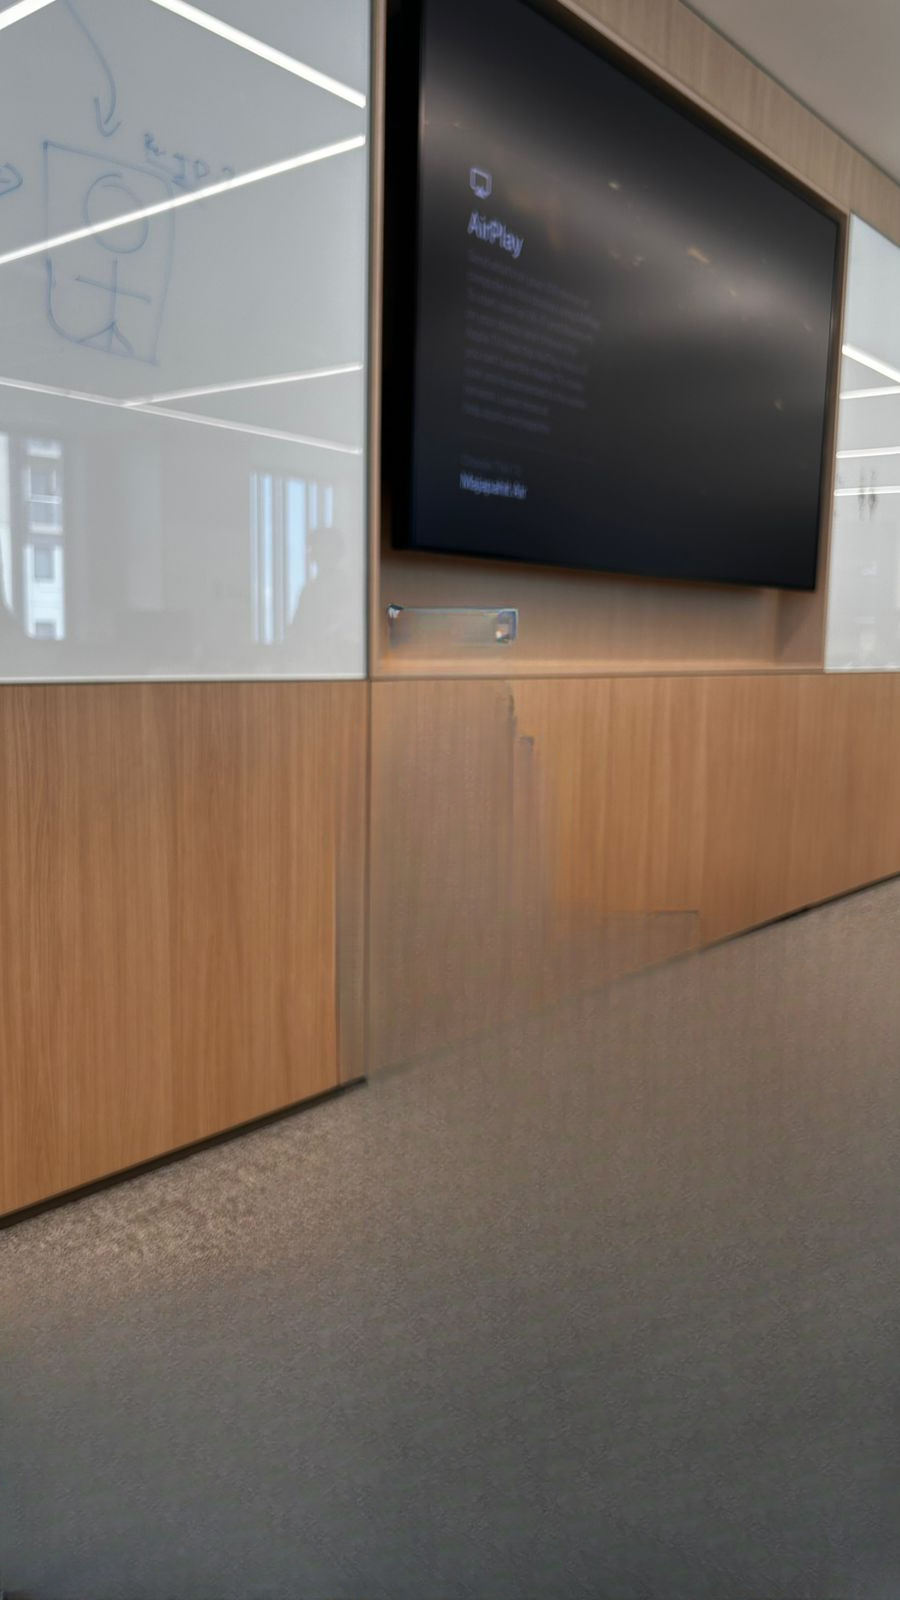
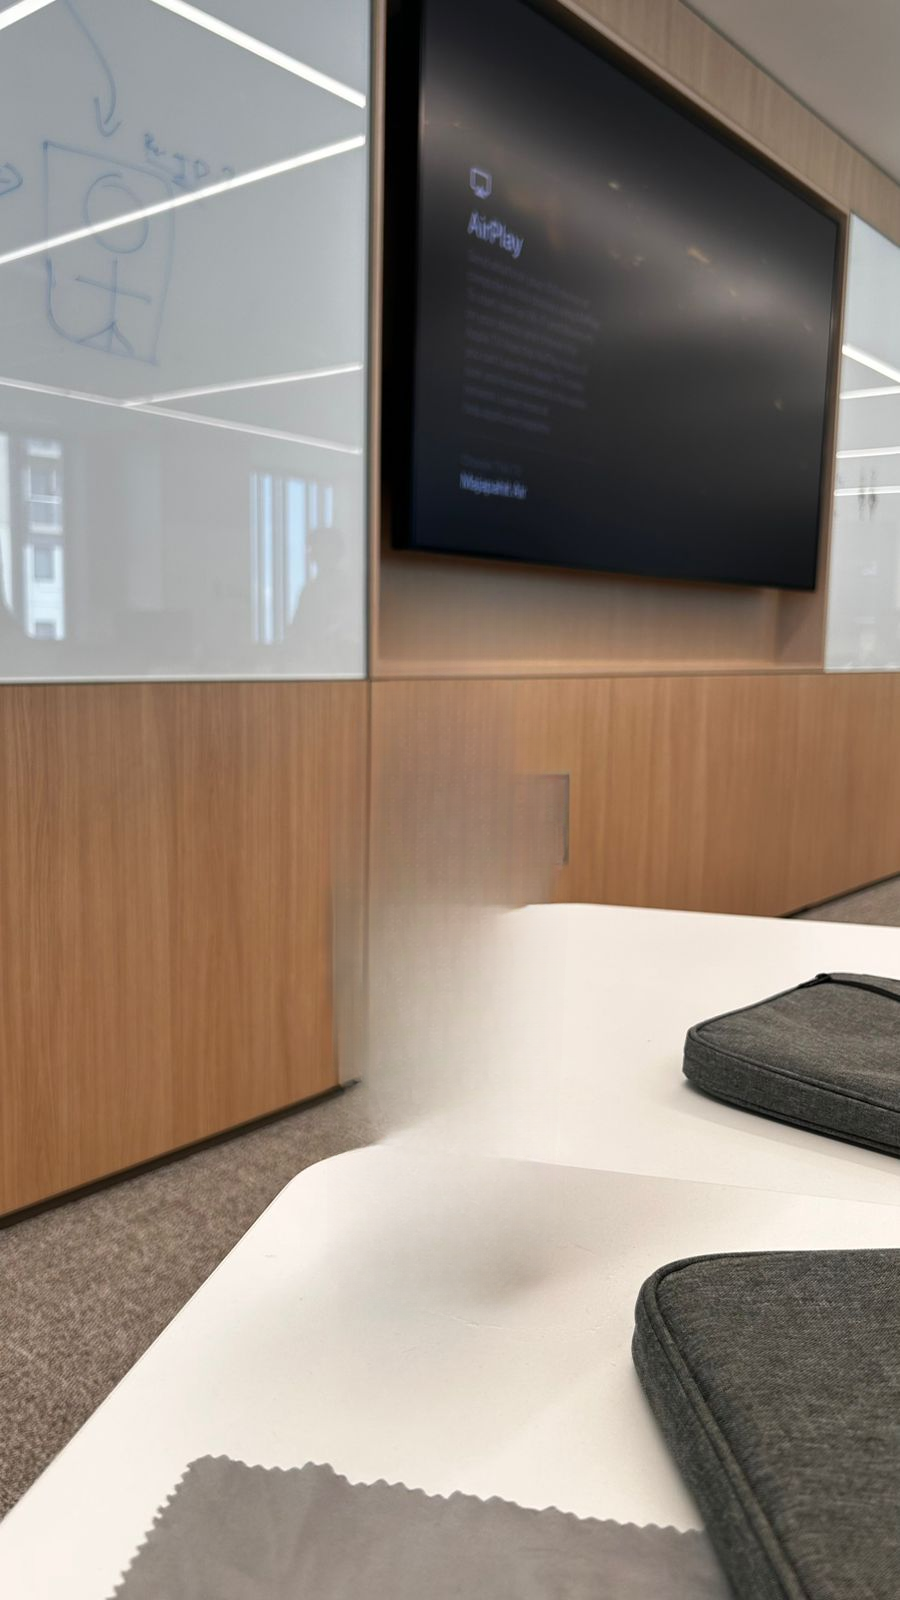
update

diff --git a/parallax/gyro-parallax-v2.html b/parallax/gyro-parallax-v2.html
@@ -763,7 +763,7 @@ void main() {
         validateUrls(options);
         this._backgroundImageUrl = options.backgroundImageUrl;
         this._foregroundImageUrl = options.foregroundImageUrl;
-        this._foregroundMaskUrl = options.foregroundMaskUrl || 'foreground-mask.png';
+        this._foregroundMaskUrl = options.foregroundMaskUrl || 'mask.png';
         this._depthMapUrl = options.depthMapUrl;
 
         this._displacementScale = (options.displacementScale != null)
@@ -1024,7 +1024,7 @@ void main() {
       const effect = new ParallaxEffect(canvas, {
         backgroundImageUrl: 'background.png',
         foregroundImageUrl: 'foreground.png',
-        foregroundMaskUrl: 'foreground-mask.png',
+        foregroundMaskUrl: 'mask.png',
         depthMapUrl: 'depth.png',
         displacementScale: 62,
         smoothingFactor: 0.06,

diff --git a/journal.md b/journal.md
@@ -12,7 +12,7 @@
 - `overscan`: 0.04
 - `fgScale`: 0.05
 - `fgZoom`: 0.015
-- `foregroundMaskUrl`: `foreground-mask.png` (optional; falls back to PNG alpha)
+- `foregroundMaskUrl`: `mask.png` (optional; falls back to PNG alpha)
 
 ## Known Risks
 - Visual quality still depends on alignment between foreground cutout, depth map, and optional mask.